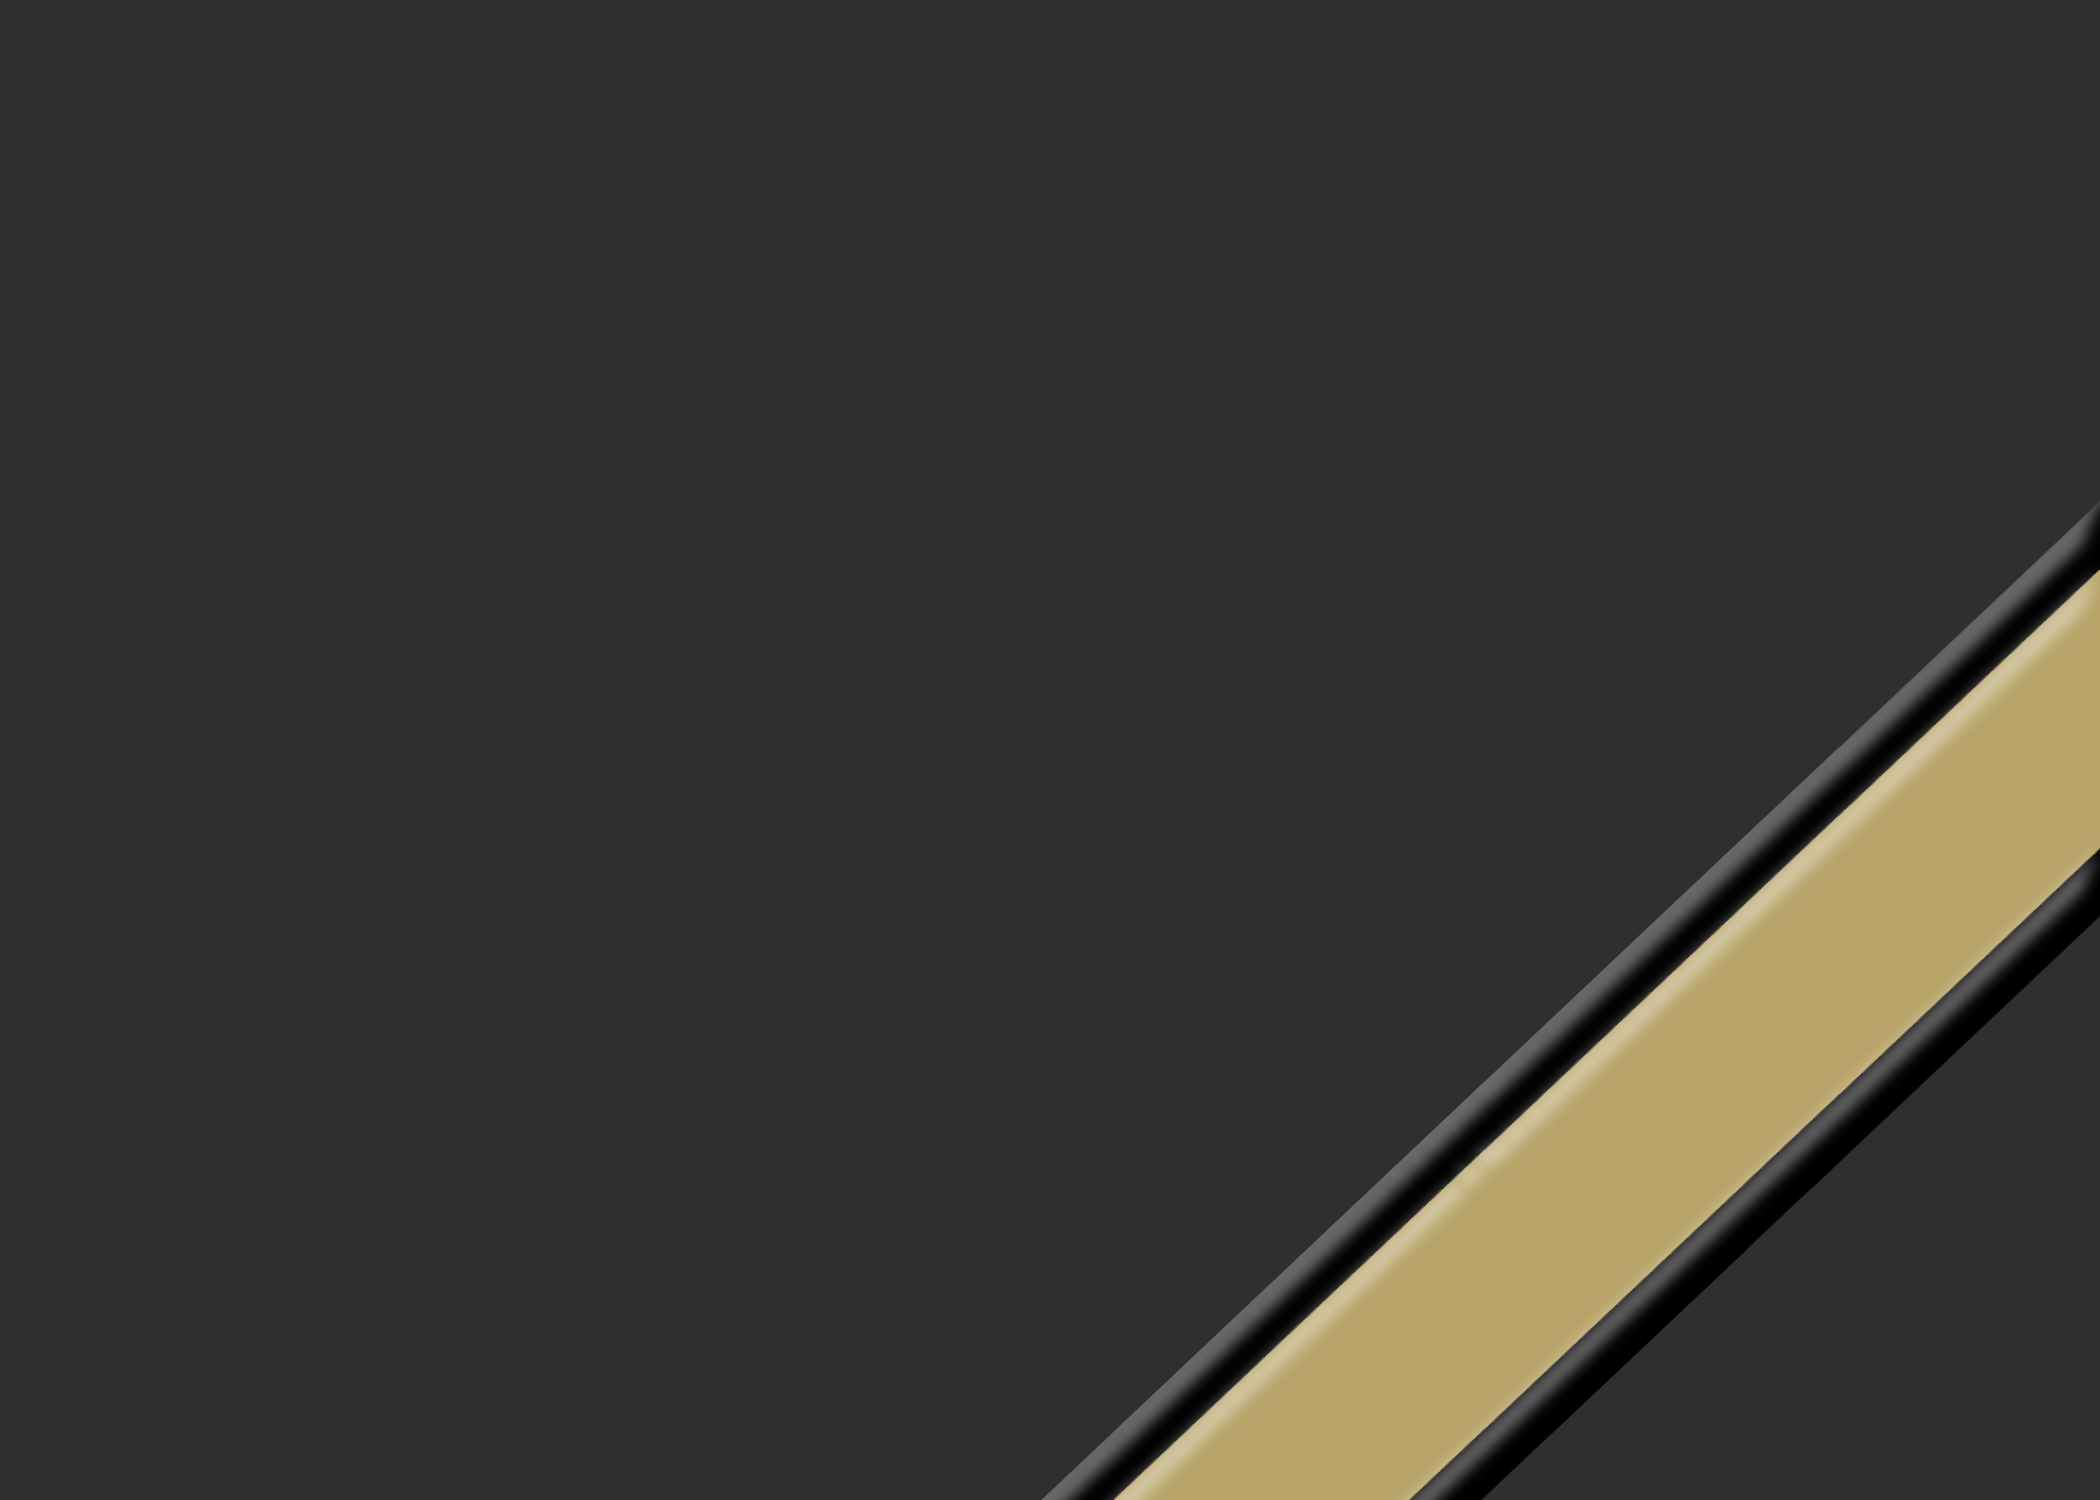
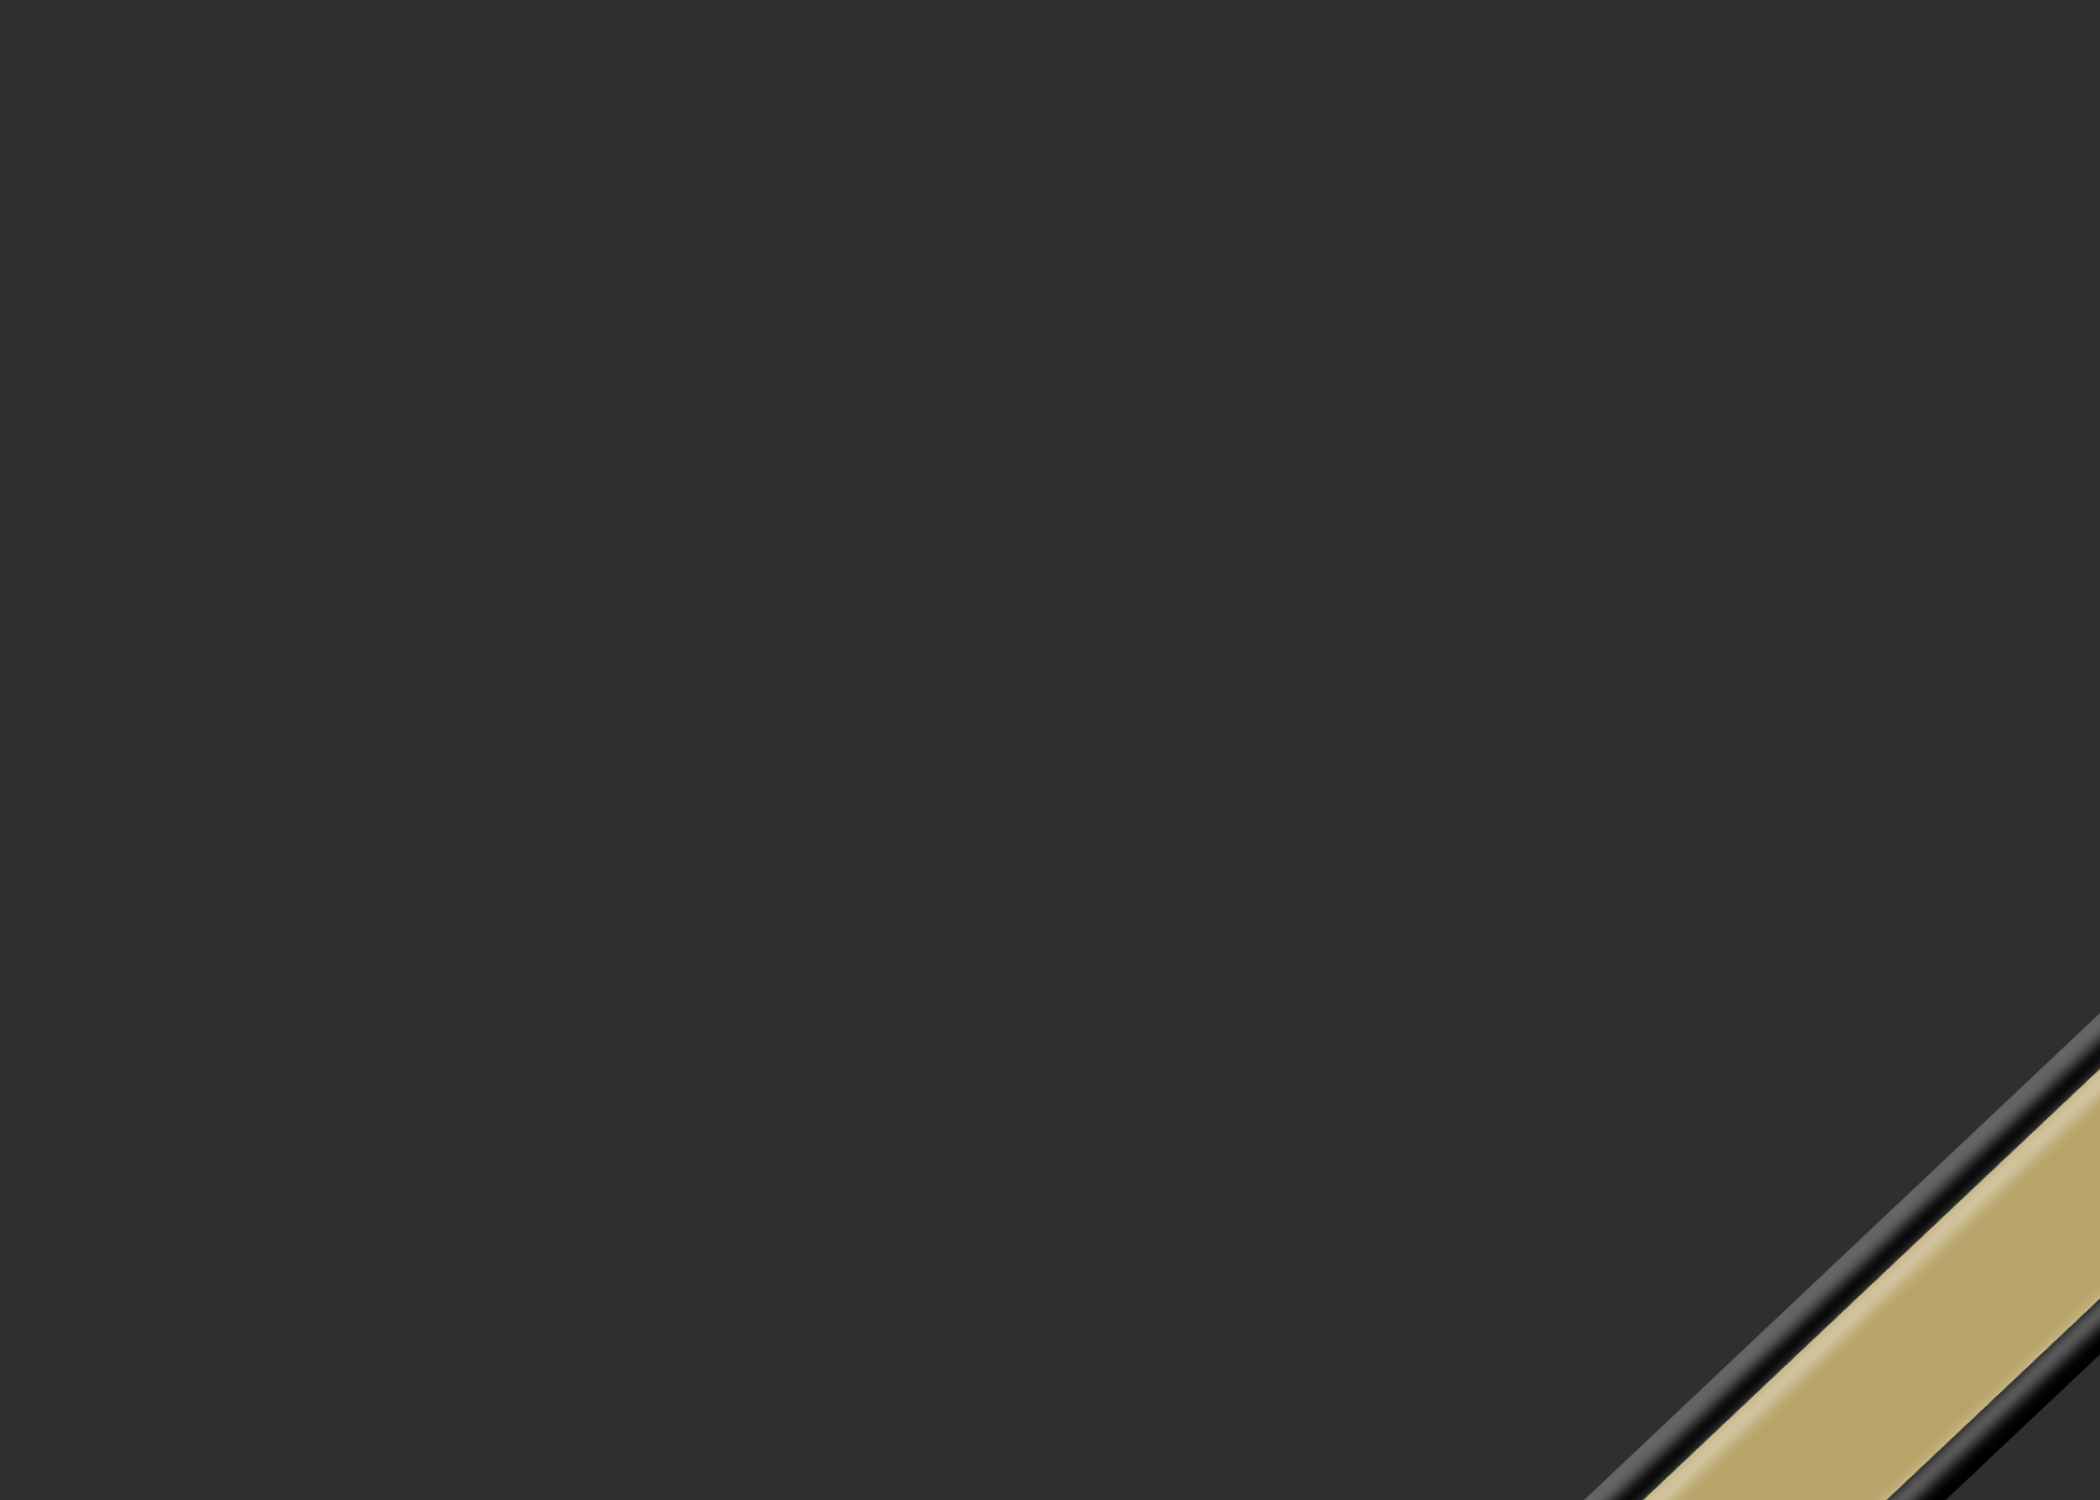
Add files via upload

Changed region(s): [[0.4952, 0.3373, 1.0, 1.0]]

diff --git a/Universal-Contact-Filing/index.html b/Universal-Contact-Filing/index.html
@@ -25,19 +25,19 @@
     <div class="ucf-heading">
       <div class="row">
         <div class="col-md-12">
-          <span style="font-family: ucffont; color: rgb(184, 164, 105); font-size: 70px">U</span><span>niversal</span>
+          <span style="font-family: ucffont; color: rgb(184, 164, 105); font-size: 80px">U</span><span>niversal</span>
         </div>
       </div>
 
       <div class="row">
         <div class="col-md-12">
-          <span style="font-family: ucffont; color: rgb(184, 164, 105); font-size: 70px">C</span><span>ontact</span>
+          <span style="font-family: ucffont; color: rgb(184, 164, 105); font-size: 80px">C</span><span>ontact</span>
         </div>
       </div>
 
       <div class="row">
         <div class="col-md-12">
-          <span style="font-family: ucffont; color: rgb(184, 164, 105); font-size: 70px">F</span><span>iling</span>
+          <span style="font-family: ucffont; color: rgb(184, 164, 105); font-size: 80px">F</span><span>iling</span>
         </div>
       </div>
     </div>
@@ -66,10 +66,7 @@
             <!-- Login Buttons -->
             <button type="submit" class="btn"><i class="fas fa-user-circle"></i> Sign Up</button>
             <button type="submit" class="btn"><i class="fas fa-sign-in-alt"></i> Log In</button>
-
-            
           </form>
-
         </div>
       </div>
     </div>

diff --git a/Universal-Contact-Filing/css/style2.css b/Universal-Contact-Filing/css/style2.css
@@ -1,7 +1,7 @@
 /* Adjust properties of the body*/
 body 
 {
-    background: url(../images/background.png) no-repeat center center fixed;   
+    background: url(../images/background.png) no-repeat bottom right fixed;   
     background-size: cover;
     color: white; /* Dark Mode by default */
 }
@@ -9,15 +9,35 @@ body
 /* Adjust properties of the heading */
 .ucf-heading
 {
-    margin-top: 15px;
-    margin-bottom: -120px;
+    font-size: 30px;
+    /*margin-top: -9px;*/
 }
 
-.row
+/* adjust properties of the search bar */
+#searchbar
 {
-    text-align: center;
-    font-size: 50px;
-    margin-bottom: -30px;
-    margin-left: auto;
-    margin-right: auto;
+    /*width: 300px;*/
+}
+
+/* Adjust properties of button */
+.btn
+{
+    color: black;
+    border-radius: 5px;
+    border: 2px solid black;
+    border-bottom: 5px solid;
+}
+
+.btn:hover, .btn:focus
+{
+    color: black;
+    background-color: rgb(160, 142, 69);
+}
+
+/* Add UCF Knights Font*/
+@font-face
+{
+    font-family: ucffont;
+    src: url(../fonts/ncaaucfknights.ttf);
+    font-size: 24px;
 }

diff --git a/Universal-Contact-Filing/css/style.css b/Universal-Contact-Filing/css/style.css
@@ -1,7 +1,7 @@
 /* Adjust properties of the body*/
 body 
 {
-    background: url(../images/background.png) no-repeat center center fixed;   
+    background: url(../images/background.png) no-repeat bottom right fixed;   
     background-size: cover;
     color: white; /* Dark Mode by default */
 }
@@ -16,6 +16,7 @@ body
 /* Adjust properties of the heading */
 .ucf-heading
 {
+    font-family: "Times New Roman", serif;
     margin-top: 15px;
     margin-bottom: -120px;
 }
@@ -24,7 +25,7 @@ body
 {
     text-align: center;
     font-size: 50px;
-    margin-bottom: -30px;
+    margin-bottom: -47px;
     margin-left: auto;
     margin-right: auto;
 }
@@ -34,6 +35,7 @@ body
 {
     margin: 0 auto;
     margin-top: 130px;
+    
     padding: 0;
 }
 
